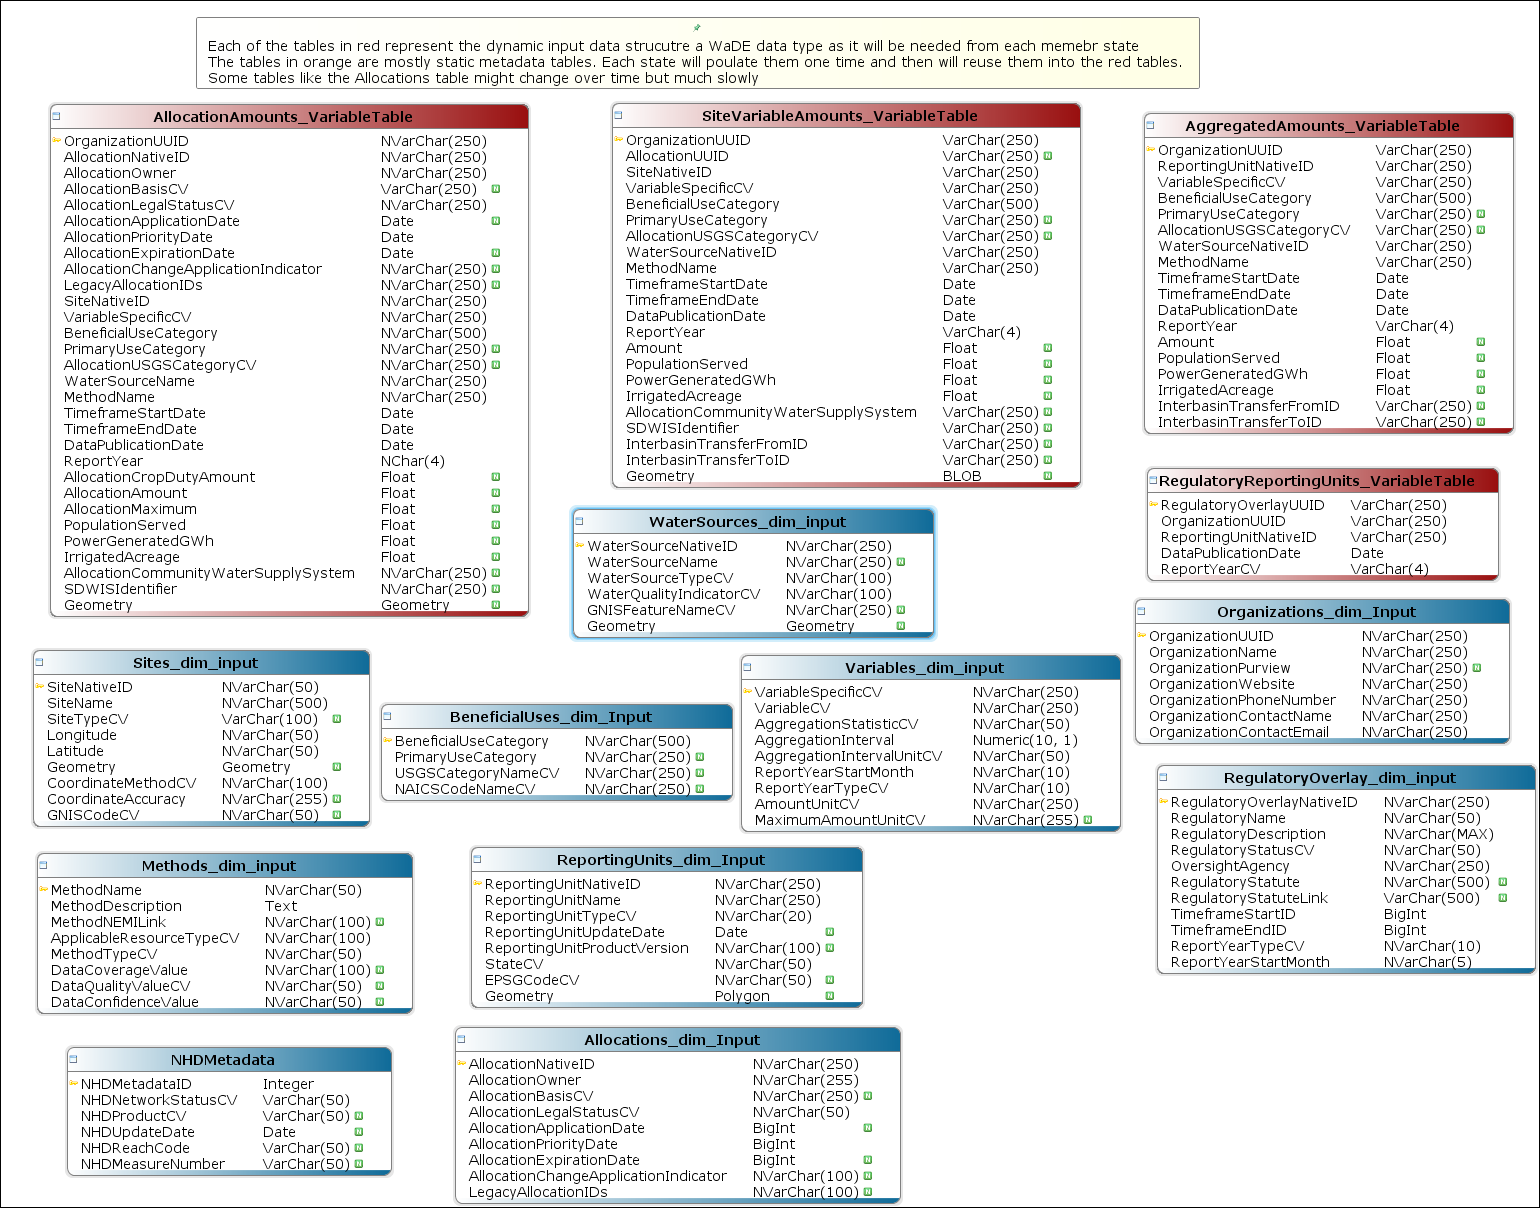
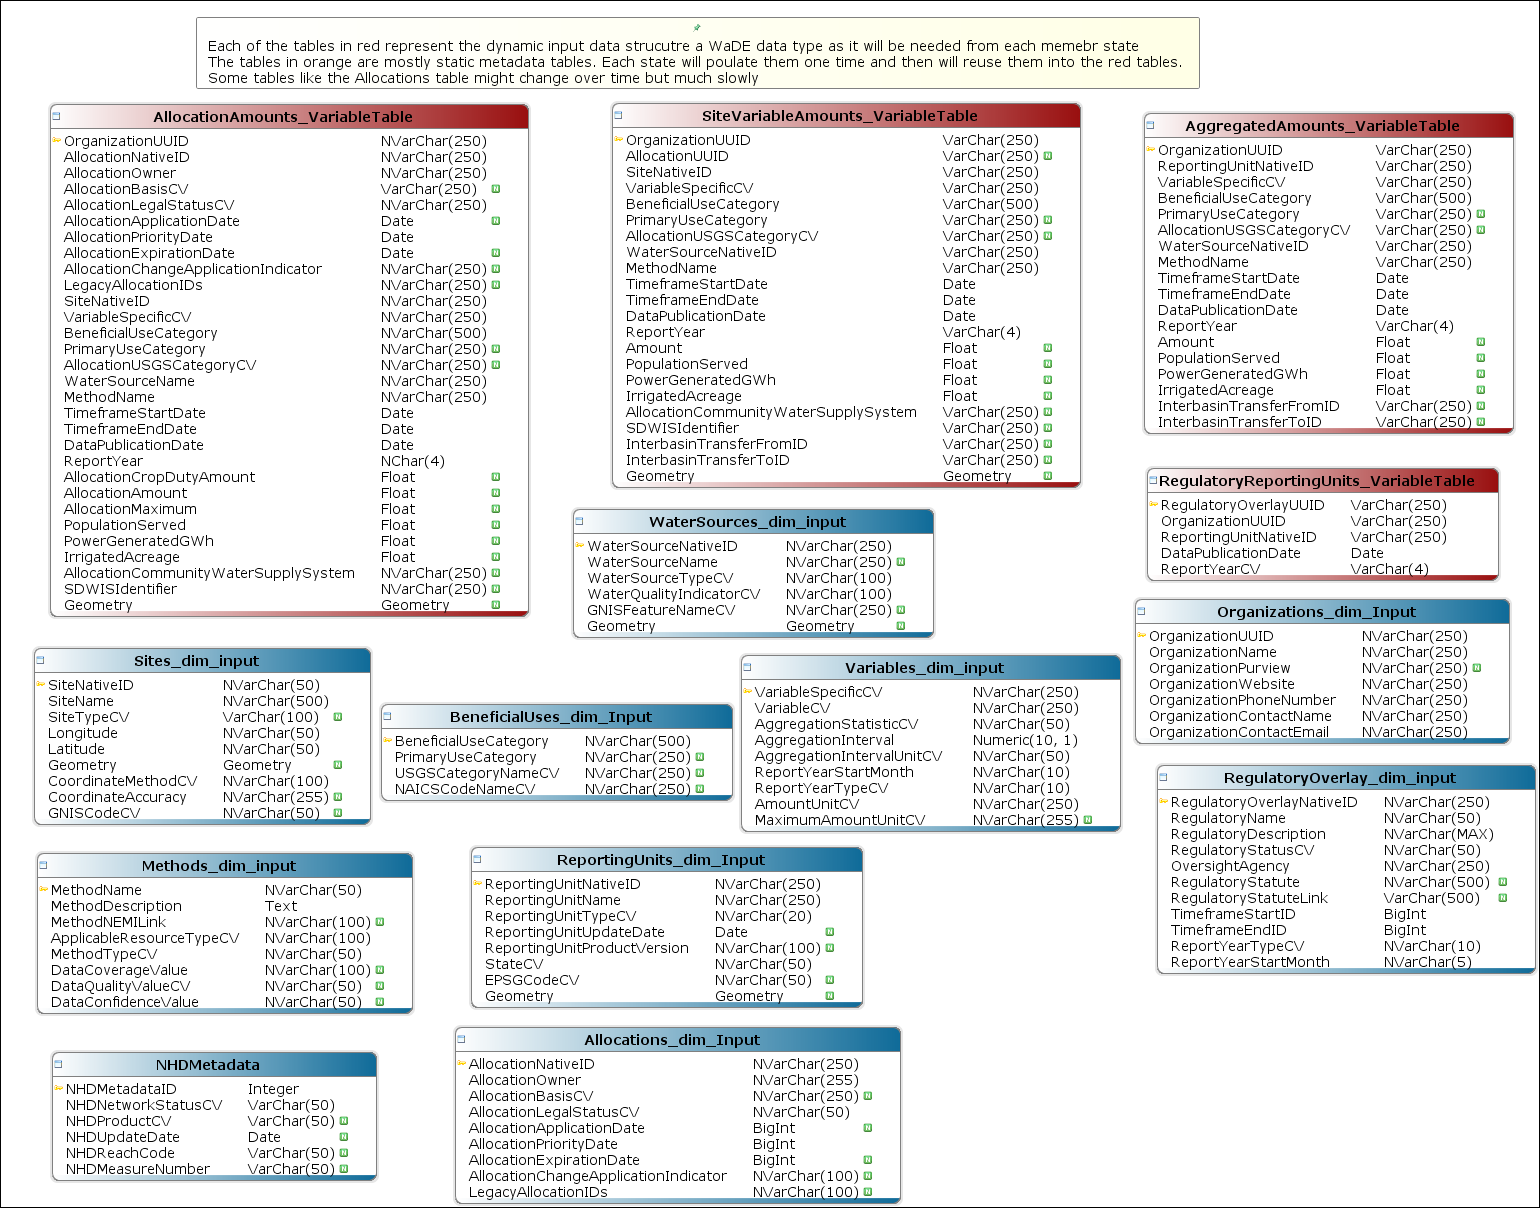
change blob and polygon to geometry

diff --git a/docs/diagrams/6_InputTables.html b/docs/diagrams/6_InputTables.html
@@ -18,14 +18,14 @@
 <area coords="50, 104, 528, 616" href="../tables/InputTables_AllocationAmounts_VariableTable.html" shape="rect">
 <area coords="612, 103, 1080, 487" href="../tables/InputTables_SiteVariableAmounts_VariableTable.html" shape="rect">
 <area coords="1147, 468, 1498, 580" href="../tables/InputTables_RegulatoryReportingUnits_VariableTable.html" shape="rect">
-<area coords="33, 650, 369, 826" href="../tables/InputTables_Sites_dim_input.html" shape="rect">
+<area coords="34, 648, 370, 824" href="../tables/InputTables_Sites_dim_input.html" shape="rect">
 <area coords="741, 655, 1120, 831" href="../tables/InputTables_Variables_dim_input.html" shape="rect">
 <area coords="1135, 599, 1509, 743" href="../tables/InputTables_Organizations_dim_Input.html" shape="rect">
 <area coords="37, 853, 412, 1013" href="../tables/InputTables_Methods_dim_input.html" shape="rect">
 <area coords="381, 704, 732, 800" href="../tables/InputTables_BeneficialUses_dim_Input.html" shape="rect">
 <area coords="1157, 765, 1535, 973" href="../tables/InputTables_RegulatoryOverlay_dim_input.html" shape="rect">
 <area coords="573, 509, 933, 637" href="../tables/InputTables_WaterSources_dim_input.html" shape="rect">
-<area coords="67, 1047, 391, 1175" href="../tables/WaDE2_star_NHDMetadata.html" shape="rect">
+<area coords="52, 1052, 376, 1180" href="../tables/WaDE2_star_NHDMetadata.html" shape="rect">
 <area coords="471, 847, 862, 1007" href="../tables/InputTables_ReportingUnits_dim_Input.html" shape="rect">
 <area coords="455, 1027, 900, 1203" href="../tables/WaDE2_star_Allocations_dim_Input.html" shape="rect">
 </map>

diff --git a/docs/tables/InputTables_SiteVariableAmounts_VariableTable.html b/docs/tables/InputTables_SiteVariableAmounts_VariableTable.html
@@ -120,7 +120,7 @@
 </td><td> </td><td> </td><td>If the data provider has a water use type for the reporting unit that is designated an interbasin transfer, they may add the receiving basin here.</td><td> </td>
 </tr>
 <tr class="altRow">
-<td> </td><td><a href="../columns/InputTables_SiteVariableAmounts_VariableTable_Geometry.html">Geometry</a></td><td>BLOB</td><td>
+<td> </td><td><a href="../columns/InputTables_SiteVariableAmounts_VariableTable_Geometry.html">Geometry</a></td><td>Geometry</td><td>
 <p class="boolImg">
 <img src="../images/ok12d.gif"></p>
 </td><td> </td><td> </td><td>Well-Known Text (WKT): The GIS objects supported by PostGIS are a superset of the "Simple Features" defined by the OpenGIS Consortium (OGC). PostGIS supports all the objects and functions specified in the OGC "Simple Features for SQL" specification.</td><td> </td>

diff --git a/docs/tables/InputTables_ReportingUnits_dim_Input.html b/docs/tables/InputTables_ReportingUnits_dim_Input.html
@@ -54,7 +54,7 @@
 </td><td> </td><td> </td><td>EPSG Code for projection, with a preference for WGS_1984, EPSG of 4326</td><td> </td>
 </tr>
 <tr class="altRow">
-<td> </td><td><a href="../columns/InputTables_ReportingUnits_dim_Input_Geometry.html">Geometry</a></td><td>Polygon</td><td>
+<td> </td><td><a href="../columns/InputTables_ReportingUnits_dim_Input_Geometry.html">Geometry</a></td><td>Geometry</td><td>
 <p class="boolImg">
 <img src="../images/ok12d.gif"></p>
 </td><td> </td><td> </td><td>Well-Known Text (WKT): The GIS objects supported by PostGIS are a superset of the "Simple Features" defined by the OpenGIS Consortium (OGC). PostGIS supports all the objects and functions specified in the OGC "Simple Features for SQL" specification.</td><td> </td>

diff --git a/docs/tables/WaDE2_star_ReportingUnits_dim.html b/docs/tables/WaDE2_star_ReportingUnits_dim.html
@@ -60,7 +60,7 @@
 </td><td> </td><td> </td><td>EPSG Code for projection, with a preference for WGS_1984, EPSG of 4326</td><td> </td>
 </tr>
 <tr class="altRow">
-<td> </td><td><a href="../columns/WaDE2_star_ReportingUnits_dim_Geometry.html">Geometry</a></td><td>Polygon</td><td>
+<td> </td><td><a href="../columns/WaDE2_star_ReportingUnits_dim_Geometry.html">Geometry</a></td><td>Geometry</td><td>
 <p class="boolImg">
 <img src="../images/ok12d.gif"></p>
 </td><td> </td><td> </td><td>Well-Known Text (WKT): The GIS objects supported by PostGIS are a superset of the "Simple Features" defined by the OpenGIS Consortium (OGC). PostGIS supports all the objects and functions specified in the OGC "Simple Features for SQL" specification.</td><td> </td>

diff --git a/docs/columns/InputTables_ReportingUnits_dim_Input_Geometry.html b/docs/columns/InputTables_ReportingUnits_dim_Input_Geometry.html
@@ -20,7 +20,7 @@
 <td class="key">Comment</td><td class="value">Well-Known Text (WKT): The GIS objects supported by PostGIS are a superset of the "Simple Features" defined by the OpenGIS Consortium (OGC). PostGIS supports all the objects and functions specified in the OGC "Simple Features for SQL" specification.</td>
 </tr>
 <tr>
-<td class="key">Data Type</td><td class="value">Polygon</td>
+<td class="key">Data Type</td><td class="value">Geometry</td>
 </tr>
 <tr>
 <td class="key">Primary Key</td><td class="value"> </td>

diff --git a/docs/columns/WaDE2_star_ReportingUnits_dim_Geometry.html b/docs/columns/WaDE2_star_ReportingUnits_dim_Geometry.html
@@ -20,7 +20,7 @@
 <td class="key">Comment</td><td class="value">Well-Known Text (WKT): The GIS objects supported by PostGIS are a superset of the "Simple Features" defined by the OpenGIS Consortium (OGC). PostGIS supports all the objects and functions specified in the OGC "Simple Features for SQL" specification.</td>
 </tr>
 <tr>
-<td class="key">Data Type</td><td class="value">Polygon</td>
+<td class="key">Data Type</td><td class="value">Geometry</td>
 </tr>
 <tr>
 <td class="key">Primary Key</td><td class="value"> </td>

diff --git a/docs/columns/InputTables_SiteVariableAmounts_VariableTable_Geometry.html b/docs/columns/InputTables_SiteVariableAmounts_VariableTable_Geometry.html
@@ -20,7 +20,7 @@
 <td class="key">Comment</td><td class="value">Well-Known Text (WKT): The GIS objects supported by PostGIS are a superset of the "Simple Features" defined by the OpenGIS Consortium (OGC). PostGIS supports all the objects and functions specified in the OGC "Simple Features for SQL" specification.</td>
 </tr>
 <tr>
-<td class="key">Data Type</td><td class="value">BLOB</td>
+<td class="key">Data Type</td><td class="value">Geometry</td>
 </tr>
 <tr>
 <td class="key">Primary Key</td><td class="value"> </td>

diff --git a/docs/index.html b/docs/index.html
@@ -51,7 +51,7 @@
 <div class="paragraph">
 <p>
 <b>Documented with DbWrench  </b>
-<k>06 Mar 2019 - 03:22:23 PM</k>
+<k>06 Mar 2019 - 03:25:01 PM</k>
 </p>
 </div>
 </body>
